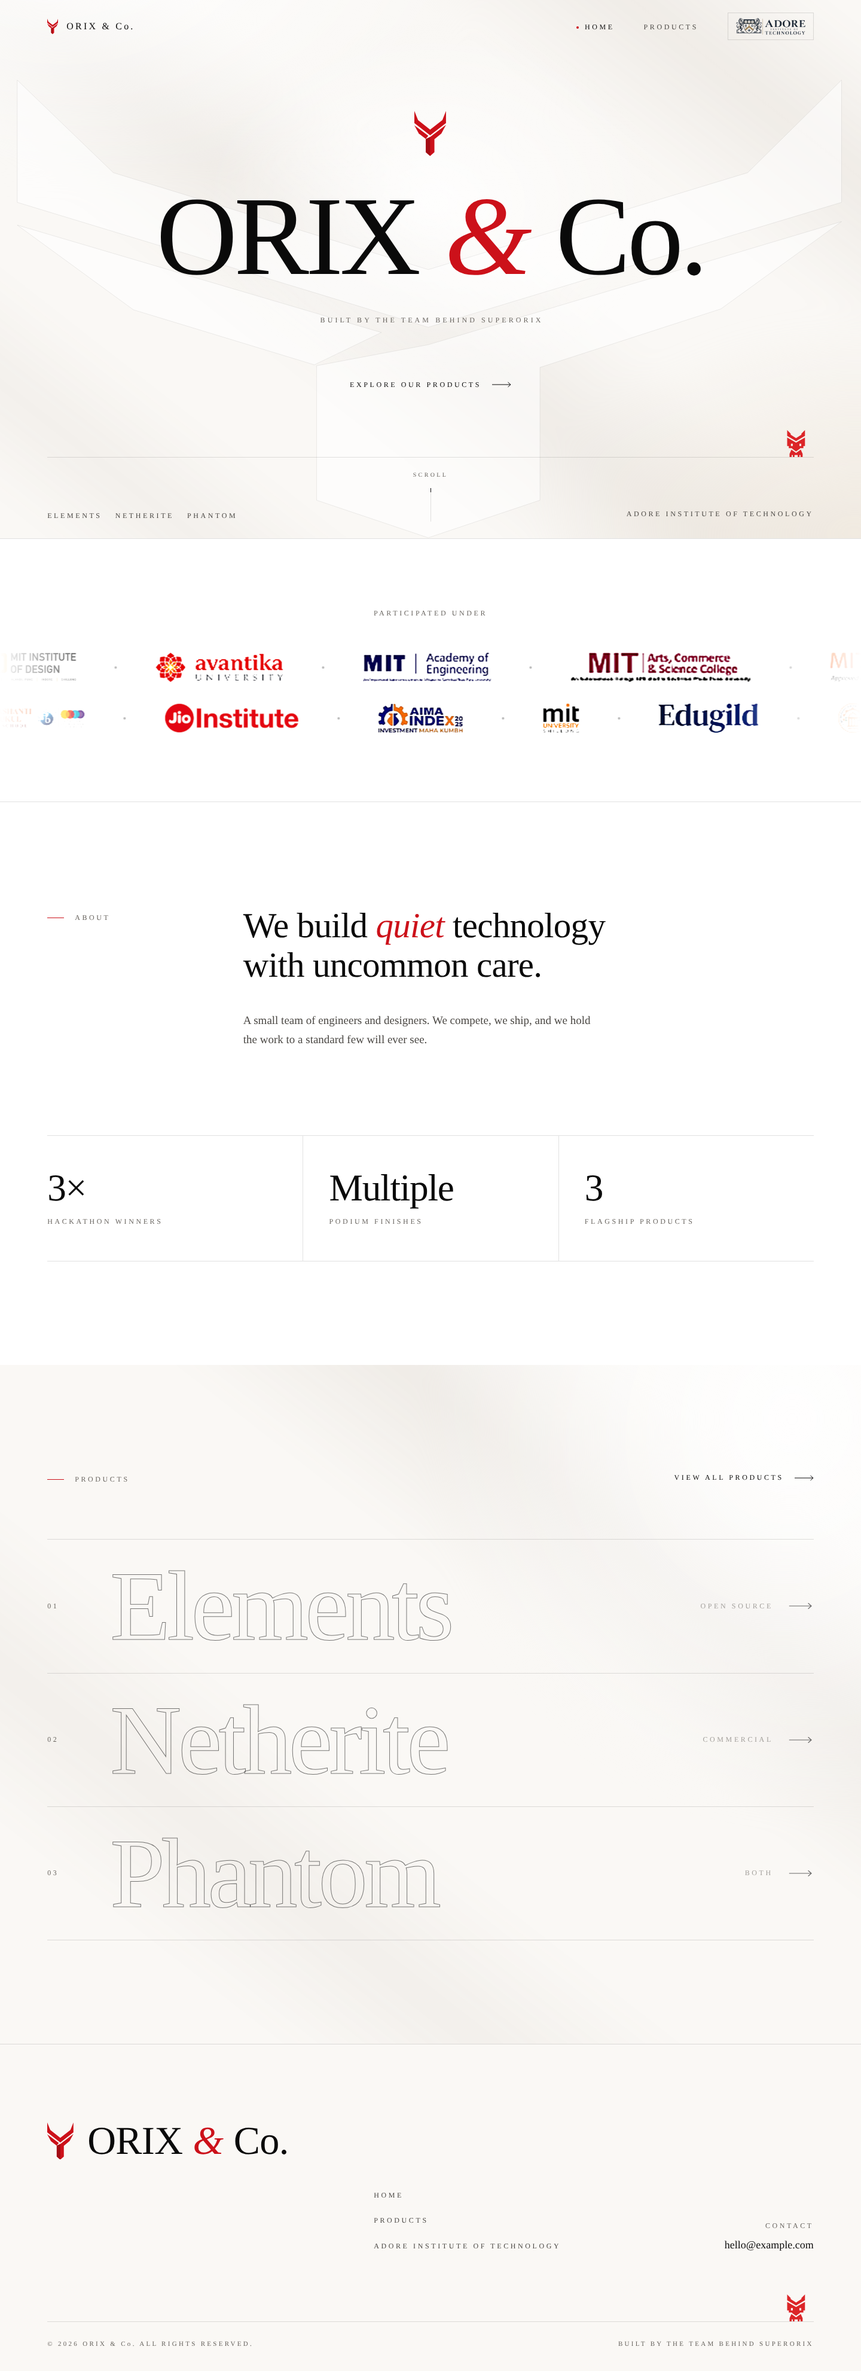
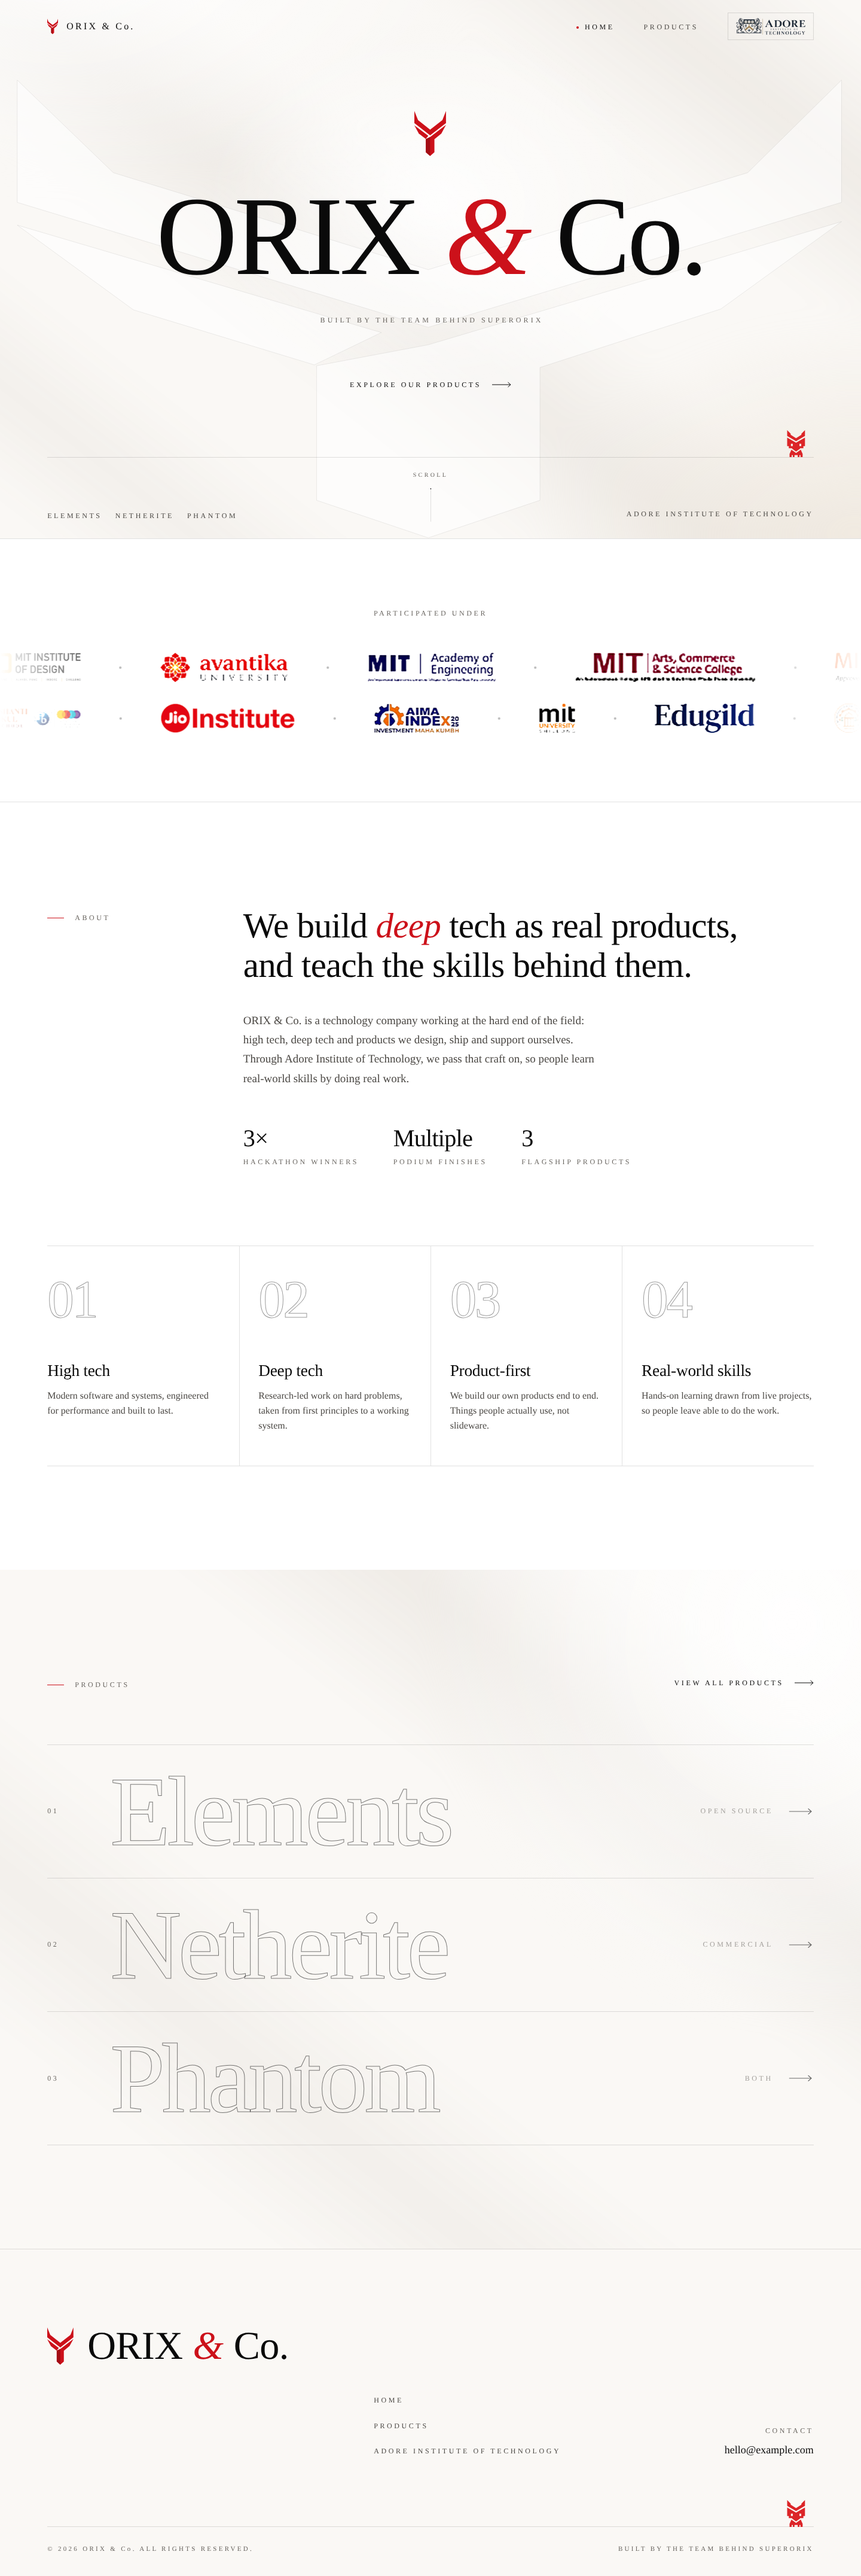
Rewrite About: deep-tech positioning, four focus areas, compact figures
Claude-Session: https://claude.ai/code/session_01LLF2qoMhDfz1JwG89VCezi

diff --git a/index.html b/index.html
@@ -95,20 +95,26 @@
       <div class="marquees" data-marquees></div>
     </section>
 
-    <section class="section" aria-labelledby="about-title">
+    <section class="section about" aria-labelledby="about-title">
       <div class="container">
         <div class="grid split">
           <p class="split__label eyebrow eyebrow--rule" data-c="home.about.label" data-reveal>About</p>
           <div class="split__main">
-            <h2 class="statement" id="about-title" data-c="home.about.statement" data-rich data-reveal style="--d:100ms">We build <span class="accent">quiet</span> technology with uncommon care.</h2>
-            <p class="lede" data-c="home.about.body" data-reveal style="--d:200ms">A small team of engineers and designers. We compete, we ship, and we hold the work to a standard few will ever see.</p>
+            <h2 class="statement" id="about-title" data-c="home.about.statement" data-rich data-reveal style="--d:100ms">We build <span class="accent">deep</span> tech as real products, and teach the skills behind them.</h2>
+            <p class="lede" data-c="home.about.body" data-reveal style="--d:200ms">ORIX &amp; Co. is a technology company working at the hard end of the field: high tech, deep tech and products we design, ship and support ourselves. Through Adore Institute of Technology, we pass that craft on, so people learn real-world skills by doing real work.</p>
+            <ul class="stats" data-render="stats" aria-label="Highlights">
+              <li class="stat"><span class="stat__value">3&times;</span><span class="stat__label eyebrow">Hackathon winners</span></li>
+              <li class="stat"><span class="stat__value">Multiple</span><span class="stat__label eyebrow">Podium finishes</span></li>
+              <li class="stat"><span class="stat__value">3</span><span class="stat__label eyebrow">Flagship products</span></li>
+            </ul>
           </div>
         </div>
-        <ul class="stats" data-render="stats" aria-label="Highlights">
-          <li class="stat"><span class="stat__value">3&times;</span><span class="stat__label eyebrow">Hackathon winners</span></li>
-          <li class="stat"><span class="stat__value">Multiple</span><span class="stat__label eyebrow">Podium finishes</span></li>
-          <li class="stat"><span class="stat__value">3</span><span class="stat__label eyebrow">Flagship products</span></li>
-        </ul>
+        <ol class="pillars" data-render="pillars" aria-label="What we focus on">
+          <li class="pillar"><span class="pillar__num" aria-hidden="true">01</span><h3 class="pillar__title">High tech</h3><p class="pillar__text">Modern software and systems, engineered for performance and built to last.</p></li>
+          <li class="pillar"><span class="pillar__num" aria-hidden="true">02</span><h3 class="pillar__title">Deep tech</h3><p class="pillar__text">Research-led work on hard problems, taken from first principles to a working system.</p></li>
+          <li class="pillar"><span class="pillar__num" aria-hidden="true">03</span><h3 class="pillar__title">Product-first</h3><p class="pillar__text">We build our own products end to end. Things people actually use, not slideware.</p></li>
+          <li class="pillar"><span class="pillar__num" aria-hidden="true">04</span><h3 class="pillar__title">Real-world skills</h3><p class="pillar__text">Hands-on learning drawn from live projects, so people leave able to do the work.</p></li>
+        </ol>
       </div>
     </section>
 

diff --git a/style.css b/style.css
@@ -647,6 +647,99 @@ svg { display: block; }
   letter-spacing: -0.02em;
 }
 
+/* ---------- About ---------- */
+.about { position: relative; overflow: hidden; }
+/* compact figures under the lede */
+.about .stats {
+  display: flex;
+  flex-wrap: wrap;
+  gap: clamp(28px, 4vw, 64px);
+  margin-top: clamp(40px, 4.5vw, 64px);
+  border: 0;
+}
+.about .stats .stat,
+.about .stats .stat:first-child { padding: 0; border: 0; gap: 10px; }
+.about .stat__value { font-size: clamp(1.9rem, 2.8vw, 2.75rem); }
+
+/* four-column focus index */
+.pillars {
+  list-style: none;
+  margin: clamp(80px, 9vw, 136px) 0 0;
+  padding: 0;
+  display: grid;
+  grid-template-columns: repeat(4, minmax(0, 1fr));
+  border-top: 1px solid var(--hair);
+  border-bottom: 1px solid var(--hair);
+}
+.pillar {
+  position: relative;
+  display: flex;
+  flex-direction: column;
+  padding: clamp(32px, 3.4vw, 52px) clamp(18px, 2.2vw, 36px) clamp(36px, 3.8vw, 60px);
+}
+.pillar:first-child { padding-left: 0; }
+.pillar:last-child { padding-right: 0; }
+.pillar + .pillar { border-left: 1px solid var(--hair); }
+/* red rule that draws across the top on hover */
+.pillar::before {
+  content: "";
+  position: absolute;
+  top: -1px;
+  left: 0;
+  right: 0;
+  height: 1px;
+  background: var(--red);
+  transform: scaleX(0);
+  transform-origin: left;
+  transition: transform 0.9s var(--ease);
+}
+.pillar__num {
+  font-size: clamp(3.4rem, 6.2vw, 6.25rem);
+  line-height: 0.9;
+  letter-spacing: -0.04em;
+  color: transparent;
+  -webkit-text-stroke: 1px rgba(10, 10, 10, 0.42);
+  background: linear-gradient(90deg, var(--red) 50%, transparent 50%) 100% 0 / 200% 100% no-repeat;
+  -webkit-background-clip: text;
+  background-clip: text;
+  transition: background-position 0.9s var(--ease), -webkit-text-stroke-color 0.5s;
+}
+.pillar__title {
+  margin-top: clamp(36px, 4.4vw, 72px);
+  font-size: clamp(1.45rem, 1.9vw, 1.9rem);
+  font-weight: 400;
+  line-height: 1.15;
+  letter-spacing: -0.01em;
+}
+.pillar__text {
+  margin-top: 14px;
+  max-width: 22em;
+  color: var(--ink-soft);
+  font-size: 1rem;
+  line-height: 1.55;
+}
+@media (hover: hover) {
+  .pillar:hover::before { transform: scaleX(1); }
+  .pillar:hover .pillar__num { background-position: 0 0; -webkit-text-stroke-color: var(--red); }
+}
+@media (max-width: 1024px) {
+  .pillars { grid-template-columns: repeat(2, minmax(0, 1fr)); }
+  .pillar:nth-child(odd) { padding-left: 0; border-left: 0; }
+  .pillar:nth-child(even) { padding-right: 0; }
+  .pillar:nth-child(n + 3) { border-top: 1px solid var(--hair); }
+}
+@media (max-width: 560px) {
+  .pillars { grid-template-columns: 1fr; }
+  .pillar,
+  .pillar:nth-child(odd),
+  .pillar:nth-child(even) { padding: 32px 0 36px; border-left: 0; }
+  .pillar + .pillar { border-top: 1px solid var(--hair); }
+  .pillar__title { margin-top: 24px; }
+  .about .stats.stats { display: grid; grid-template-columns: repeat(3, minmax(0, 1fr)); gap: 16px; }
+  .about .stat__value { font-size: 1.6rem; }
+  .about .stat__label { font-size: 10px; letter-spacing: 0.18em; }
+}
+
 /* ---------- Marquee ---------- */
 .band {
   padding-block: clamp(72px, 8vw, 120px);

diff --git a/script.js b/script.js
@@ -57,8 +57,15 @@ const CONFIG = {
     },
     about: {
       label: "About",
-      statement: "We build *quiet* technology with uncommon care.",
-      body: "A small team of engineers and designers. We compete, we ship, and we hold the work to a standard few will ever see.",
+      statement: "We build *deep* tech as real products, and teach the skills behind them.",
+      body: "{name} is a technology company working at the hard end of the field: high tech, deep tech and products we design, ship and support ourselves. Through {institute}, we pass that craft on, so people learn real-world skills by doing real work.",
+      // What we focus on. Shown as a four-column index under the statement.
+      pillars: [
+        { title: "High tech", text: "Modern software and systems, engineered for performance and built to last." },
+        { title: "Deep tech", text: "Research-led work on hard problems, taken from first principles to a working system." },
+        { title: "Product-first", text: "We build our own products end to end. Things people actually use, not slideware." },
+        { title: "Real-world skills", text: "Hands-on learning drawn from live projects, so people leave able to do the work." },
+      ],
       // Placeholders — replace with verified figures.
       stats: [
         { value: "3×", label: "Hackathon winners" },
@@ -433,6 +440,18 @@ const CONFIG = {
   }
 
   const renderers = {
+    pillars(el) {
+      el.replaceChildren(
+        ...C.home.about.pillars.map((p, i) =>
+          h("li", { class: "pillar", "data-reveal": "", style: `--d:${i * 110}ms` }, [
+            h("span", { class: "pillar__num", "aria-hidden": "true", text: String(i + 1).padStart(2, "0") }),
+            h("h3", { class: "pillar__title", text: tpl(p.title) }),
+            h("p", { class: "pillar__text", text: tpl(p.text) }),
+          ])
+        )
+      );
+    },
+
     stats(el) {
       el.replaceChildren(
         ...C.home.about.stats.map((s, i) =>

diff --git a/README.md b/README.md
@@ -30,7 +30,7 @@ All copy lives in the `CONFIG` object at the top of `script.js`.
 | Contact email | `EMAIL` |
 | Placement wording | `PLACEMENT_CLAIM`, `PLACEMENT_NOTE` |
 | Page titles and descriptions | `meta.home`, `meta.products`, `meta.institute` |
-| Home stats, product showcase, partners strip | `home.about.stats`, `home.showcase`, `home.partners` |
+| About section (statement, body, focus areas, figures), product showcase, partners strip | `home.about` (`statement`, `body`, `pillars`, `stats`), `home.showcase`, `home.partners` |
 | Products | `products.items` (name, description, tags, status, href, visual or image, downloads) |
 | Download cards | `products.platforms` (Windows / Linux / macOS labels, notes, file names) and each product's `downloads` links |
 | Programs and steps | `institute.programs.items`, `institute.steps.items` |
